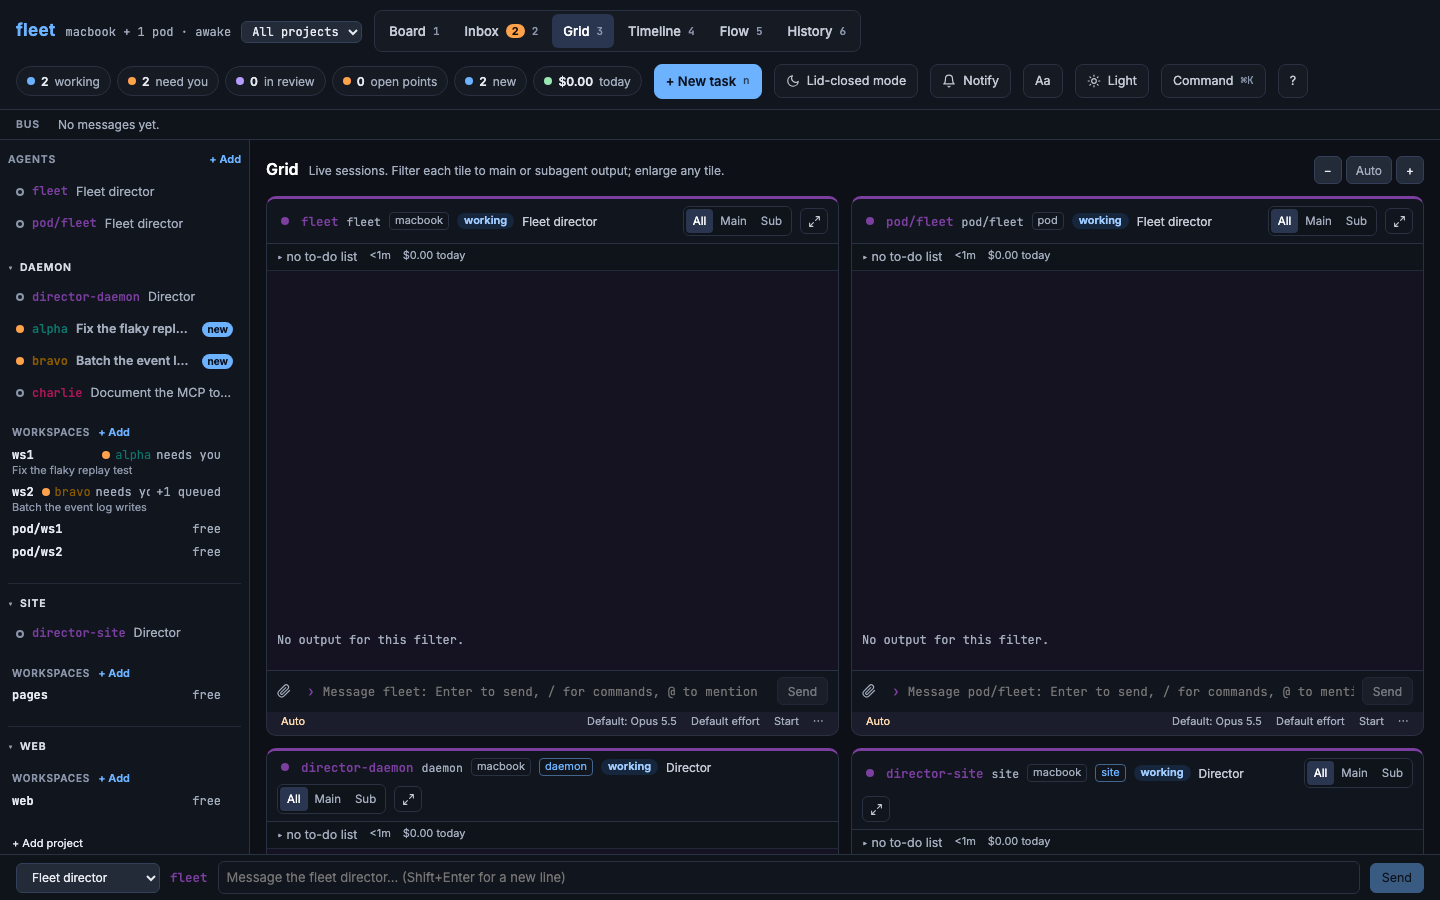
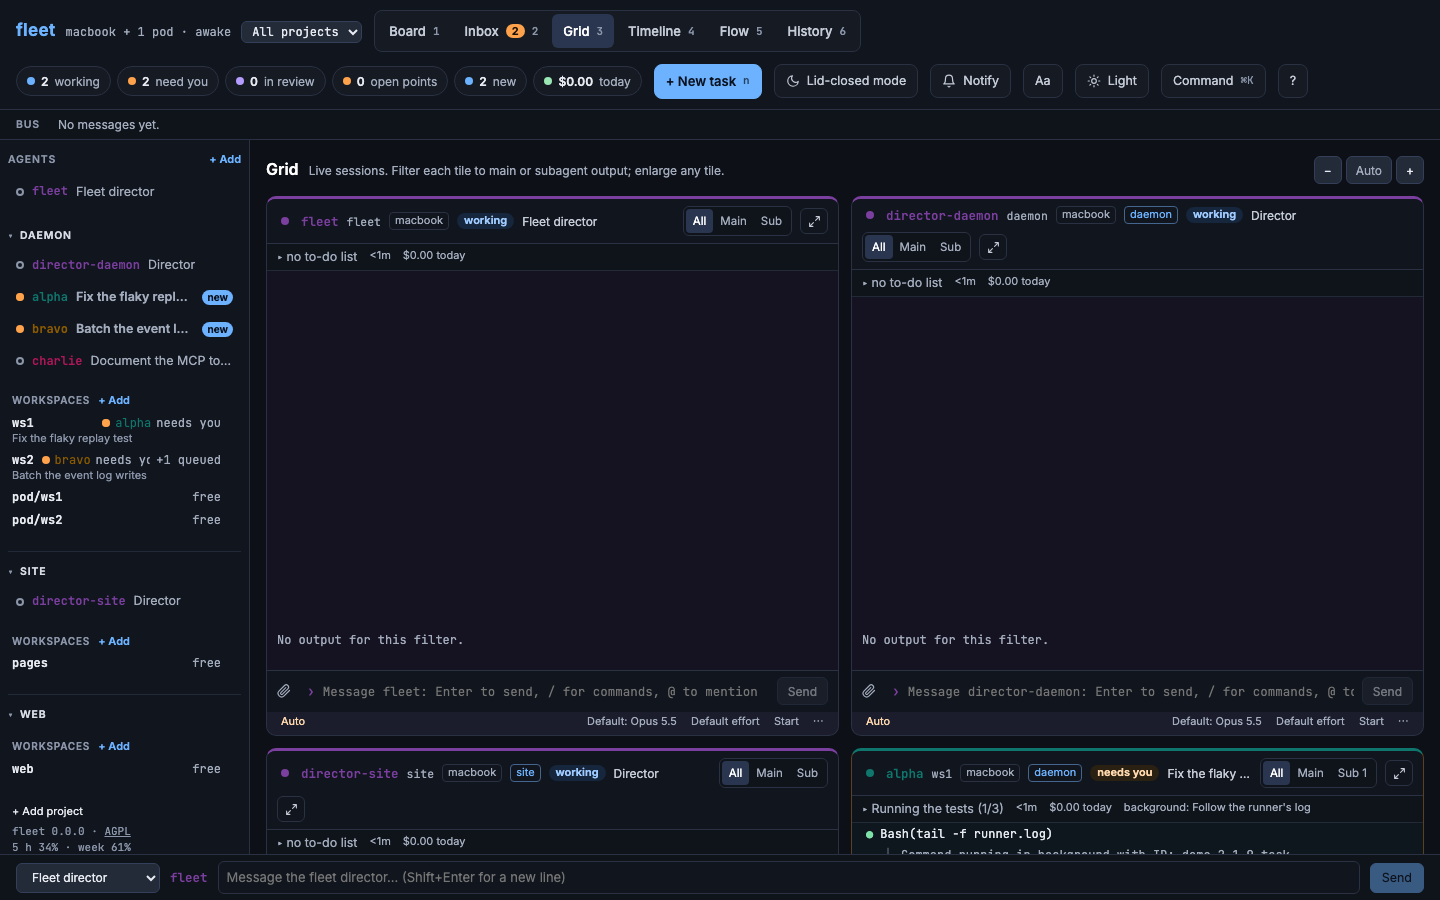
fleet_director = false runs no fleet director, as on a pod

diff --git a/src/daemon/config.ts b/src/daemon/config.ts
@@ -50,6 +50,8 @@ const ConfigFile = z.object({
   allowed_tools: z.array(z.string()).default(DEFAULT_ALLOWED_TOOLS),
   /** Only the owner of ~/.fleet/secret gets in; false lets every user of this computer in. */
   auth: z.boolean().default(true),
+  /** false runs no fleet director, as on a pod whose directors live on another machine. */
+  fleet_director: z.boolean().default(true),
   /** Limits of the whole fleet, on top of each project's. */
   wip: LimitsConfig.default({}),
   model: z.string().optional(),
@@ -97,6 +99,8 @@ export interface Config {
   host: string;
   allowedOrigins: string[];
   allowedHosts: string[];
+  /** Whether the fleet director runs. */
+  fleetDirector: boolean;
   /** Limits of the whole fleet, on top of each project's. */
   wip: Limits;
   model?: string;
@@ -206,6 +210,7 @@ export function loadConfig(home = fleetHome(), fallbackCwd = process.cwd()): Con
     host: parsed.host ?? hostname().replace(/\.local$/, ""),
     allowedOrigins: parsed.allowed_origins,
     allowedHosts: parsed.allowed_hosts,
+    fleetDirector: parsed.fleet_director,
     wip: parsed.wip,
     model: parsed.model,
     projects,

diff --git a/tests/tools.test.ts b/tests/tools.test.ts
@@ -602,13 +602,20 @@ describe("fleet director", () => {
       supervisor.init();
       return supervisor;
     };
-    return { root, home, log, supervisor: start(), restart: start, calls: fake.calls };
+    return { root, home, log, config, supervisor: start(), restart: start, calls: fake.calls };
   }
 
   it("keeps the fleet director out of every project across restarts", () => {
     const { log, restart } = fleet();
     restart();
     expect(log.state.agents[FLEET_DIRECTOR]?.project).toBeUndefined();
+  });
+
+  it("goes once the config switches it off", () => {
+    const { log, config } = fleet();
+    new Supervisor({ log, queryFn: fakeQuery(echoing(result())).queryFn, config }).init();
+    expect(log.state.agents[FLEET_DIRECTOR]).toBeUndefined();
+    expect(log.state.agents[DIRECTOR]).toBeDefined();
   });
 
   it("keeps each director with its project when the config lists them in another order", () => {

diff --git a/tests/config.test.ts b/tests/config.test.ts
@@ -15,6 +15,7 @@ it("falls back to the current directory as the only project and workspace", () =
     { name: "here", path: "/work/here", project: "here", explicit: true, fallback: true },
   ]);
   expect(config.port).toBe(7777);
+  expect(config.fleetDirector).toBe(true);
   expect(config.wip).toEqual({});
   expect(config.diskMinFree).toBe(10 * 1024 ** 3);
 });
@@ -25,6 +26,7 @@ it("reads workspaces and lets them override the allow list", () => {
     join(dir, "config.toml"),
     `port = 9000
 host = "mac"
+fleet_director = false
 allowed_tools = ["Read"]
 wip = { running = 3 }
 disk = { min_free_gb = 2.5 }
@@ -47,6 +49,7 @@ allowed_tools = ["Read", "Bash(uv run pytest:*)"]
   expect(config).toMatchObject({
     port: 9000,
     host: "mac",
+    fleetDirector: false,
     diskMinFree: 2.5 * 1024 ** 3,
     wip: { running: 3 },
   });

diff --git a/src/daemon/supervisor.ts b/src/daemon/supervisor.ts
@@ -371,6 +371,9 @@ export class Supervisor implements ToolHost {
         cwd: this.fleetDir,
         host: this.config.host,
       });
+    } else if (!this.fleetDir && this.agent(FLEET_DIRECTOR)) {
+      // Switched off since the last run: reports go to the user then, not to an idle director.
+      this.append(FLEET_DIRECTOR, { kind: "task_removed" });
     }
     for (const project of this.config.projects) this.startDirector(project);
     for (const decision of Object.values(this.log.state.decisions)) {

diff --git a/e2e/serve.ts b/e2e/serve.ts
@@ -52,7 +52,7 @@ const daemon = (director: boolean) =>
 let config: string;
 if (isPod) {
   // A pod has workers only; the directors live on the Mac.
-  config = `port = ${port}\nhost = "pod"\n\n[history]\nenabled = false\n\n${daemon(false)}`;
+  config = `port = ${port}\nhost = "pod"\nfleet_director = false\n\n[history]\nenabled = false\n\n${daemon(false)}`;
 } else {
   const site = repo("site");
   execFileSync("jj", ["workspace", "add", "--name", "pages", join(home, "pages")], {

diff --git a/src/daemon/main.ts b/src/daemon/main.ts
@@ -47,7 +47,7 @@ const supervisor = new Supervisor({
   // Only the `fleet` command starts the daemon again after it exits for a restart.
   restart: process.env.FLEET_SUPERVISED ? () => void shutdown(RESTART_EXIT_CODE) : undefined,
   configFile: join(home, "config.toml"),
-  fleetDir: join(home, "fleet-director"),
+  fleetDir: config.fleetDirector ? join(home, "fleet-director") : undefined,
   onWorkspacesChanged: () => broadcastInfo(),
 });
 

diff --git a/README.md b/README.md
@@ -150,6 +150,7 @@ The header and `fleet --version` show the version from `package.json`. To releas
 ```toml
 port = 7777
 # auth = false                          # no login, for a computer nobody else uses
+# fleet_director = false                # no fleet director
 model = "opus"                          # default model, optional
 wip = { running = 6, review = 3 }       # for all projects together; leave it out for no limit
 disk = { min_free_gb = 10 }             # warn below this much free space (the default)
@@ -181,7 +182,8 @@ Workspace names must differ across all projects. fleet writes `config.toml` itse
 project, or when the fleet director changes a limit. It keeps the comments at the top of the file and loses the
 others.
 
-On a pod, run the same daemon with its own projects, each with `director = false`, then forward its port with
+On a pod, run the same daemon with `fleet_director = false` and its own projects, each with `director = false`, so
+that the directors on your Mac stay the only ones. Then forward its port with
 `coder port-forward <pod> --tcp 7801:7777` or `ssh -L 7801:127.0.0.1:7777 <pod>`.
 
 ## Claude Code sessions outside fleet
